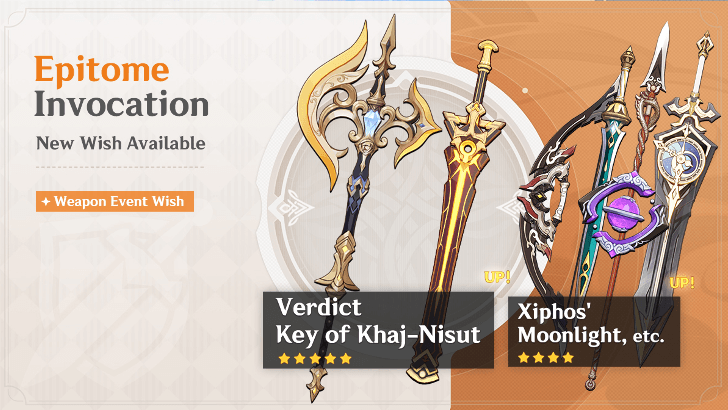
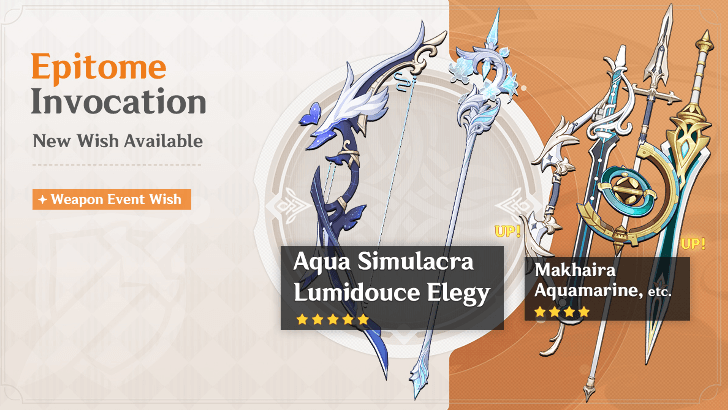
Added Emilie.

diff --git a/GenshinWishCounter1.5/Service/DatabaseService.cs b/GenshinWishCounter1.5/Service/DatabaseService.cs
@@ -26,6 +26,7 @@ namespace GenshinWishCounter1._5.Service
             new FiveStarModel{ Name = "Cyno", Type = CategoryStrings.Electro, IsStandard = false },
             new FiveStarModel{ Name = "Dehya", Type = CategoryStrings.Pyro, IsStandard = true },
             new FiveStarModel{ Name = "Diluc", Type = CategoryStrings.Pyro, IsStandard = true },
+            new FiveStarModel{ Name = "Emilie", Type = CategoryStrings.Dendro, IsStandard = false },
             new FiveStarModel{ Name = "Eula", Type = CategoryStrings.Cryo, IsStandard = false },
             new FiveStarModel{ Name = "Furina", Type = CategoryStrings.Hydro, IsStandard = false },
             new FiveStarModel{ Name = "Ganyu", Type = CategoryStrings.Cryo, IsStandard = false },
@@ -114,6 +115,7 @@ namespace GenshinWishCounter1._5.Service
             new FiveStarModel { Name = "Key of Khaj-Nisut", Type = CategoryStrings.Sword, IsStandard = false },
             new FiveStarModel { Name = "Light of Foliar Incision", Type = CategoryStrings.Sword, IsStandard = false },
             new FiveStarModel { Name = "Lost Prayer to the Sacred Winds", Type = CategoryStrings.Catalyst, IsStandard = true },
+            new FiveStarModel { Name = "Lumidouce Elegy", Type = CategoryStrings.Polearm, IsStandard = true },
             new FiveStarModel { Name = "Memory of Dust", Type = CategoryStrings.Catalyst, IsStandard = false },
             new FiveStarModel { Name = "Mistsplitter Reforged", Type = CategoryStrings.Sword, IsStandard = false },
             new FiveStarModel { Name = "Polar Star", Type = CategoryStrings.Bow, IsStandard = false },
